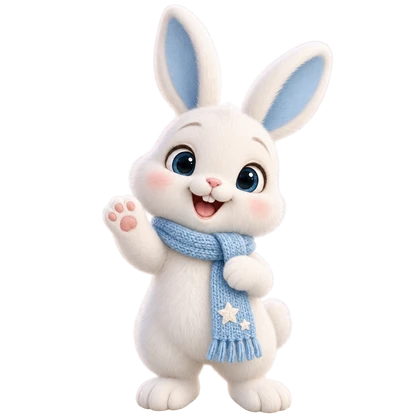
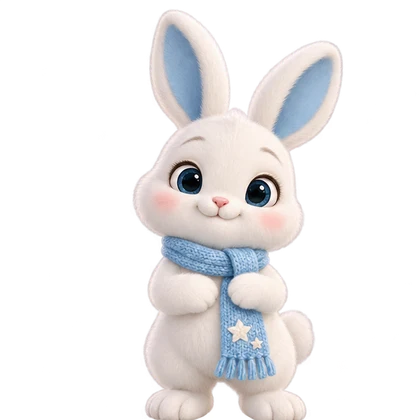
Add files via upload

Changed region(s): [[0.2476, 0.031, 0.8357, 1.0]]

diff --git a/notes/pet.js b/notes/pet.js
@@ -2,16 +2,16 @@
  'use strict';
  const scriptURL=document.currentScript.src;
  const asset=name=>new URL('pet-'+name+'.webp',scriptURL).href;
- const profiles={rabbit1:{name:'兔大',tag:'蓝围巾 · 元气竖耳兔',motion:'hop'},rabbit2:{name:'兔二',tag:'蝴蝶结 · 温柔垂耳兔',motion:'sway'},turtle:{name:'小龟',tag:'薄荷甲壳 · 慢悠悠伙伴',motion:'nod'},dog:{name:'狗狗',tag:'蓝领巾 · 热情小狗',motion:'wiggle'}};
+ const profiles={rabbit1:{name:'兔大',tag:'蓝围巾 · 元气竖耳兔',motion:'hop'},rabbit2:{name:'兔二',tag:'蝴蝶结 · 温柔垂耳兔',motion:'sway'},turtle:{name:'小龟',tag:'薄荷甲壳 · 慢悠悠伙伴',motion:'nod'},dog:{name:'狗狗',tag:'蓝领巾 · 纯白小狗',motion:'wiggle'}};
  const lines=window.BAIXING_PET_LINES;
  let saved={};try{saved=JSON.parse(localStorage.getItem('baixing-companion-v3')||'{}')||{}}catch{}
  let type=profiles[saved.type]?saved.type:'rabbit1',position=null,compact=!!saved.compact,timer,animationTimer,drag=null,suppressClick=false,touchClickUntil=0;
  const counters=Object.fromEntries(Object.keys(profiles).map(k=>[k,0]));
  const root=document.createElement('aside');root.id='journal-companion';root.setAttribute('aria-label','笔记小伙伴');
  root.innerHTML=`<div class="jc-bubble" role="status" aria-live="polite" hidden></div>
- <button class="jc-character" type="button" aria-label="摸摸伙伴，听一句话"><img draggable="false" alt=""><span class="jc-hearts" aria-hidden="true">♡ ✧ ♡</span></button>
- <div class="jc-controls"><button class="jc-switch" type="button" aria-expanded="false" aria-controls="jc-picker"></button><button class="jc-minimize" type="button" aria-label="收起宠物" title="收起宠物">−</button></div>
- <button class="jc-restore" type="button" hidden aria-label="展开宠物"><span aria-hidden="true">✧</span> 小伙伴</button>
+ <button class="jc-character" type="button" aria-label="摸摸伙伴，听一句话"><img draggable="false" alt=""><img class="jc-next" draggable="false" alt="" aria-hidden="true"><span class="jc-hearts" aria-hidden="true">♡ ✧ ♡</span></button>
+ <div class="jc-controls"><button class="jc-switch" type="button" aria-expanded="false" aria-controls="jc-picker" aria-label="选择宠物" title="选择宠物"><svg viewBox="0 0 24 24" aria-hidden="true"><rect x="4" y="4" width="6" height="6" rx="2"/><rect x="14" y="4" width="6" height="6" rx="2"/><rect x="4" y="14" width="6" height="6" rx="2"/><rect x="14" y="14" width="6" height="6" rx="2"/></svg></button><button class="jc-minimize" type="button" aria-label="收起宠物" title="收起宠物">−</button></div>
+ <button class="jc-restore" type="button" hidden aria-label="展开宠物"><span aria-hidden="true">✧</span></button>
  <section id="jc-picker" class="jc-picker" hidden aria-label="选择小伙伴"><div class="jc-panel-head"><div><strong>换个小伙伴</strong><p>点头像选择，轻点宠物听它说话</p></div><button class="jc-close" type="button" aria-label="关闭选择框">×</button></div><div class="jc-options"></div><div class="jc-panel-foot">按住宠物可拖动 · 选择与位置保存在此设备</div></section>`;
  document.body.append(root);
  const button=root.querySelector('.jc-character'),picture=button.querySelector('img'),bubble=root.querySelector('.jc-bubble'),picker=root.querySelector('.jc-picker'),toggle=root.querySelector('.jc-switch');
@@ -19,19 +19,29 @@
  function keepInView(){const width=compact?104:152,height=compact?42:196;const maxX=Math.max(8,innerWidth-width-8),maxY=Math.max(8,innerHeight-height-8);const x=position?.x??maxX-12,y=position?.y??maxY-8;position={x:Math.max(8,Math.min(maxX,x)),y:Math.max(8,Math.min(maxY,y))};root.style.left=position.x+'px';root.style.top=position.y+'px';root.classList.toggle('jc-near-left',position.x<180);root.classList.toggle('jc-near-top',position.y<105);if(!picker.hidden)placePicker()}
  function placePicker(){const width=Math.min(320,innerWidth-24);picker.style.width=width+'px';picker.style.left=Math.max(12,Math.min(innerWidth-width-12,position.x+152-width))+'px';const height=picker.offsetHeight;const above=position.y-height-10;picker.style.top=Math.max(12,Math.min(innerHeight-height-12,above>=12?above:position.y+36))+'px'}
  function menu(open){picker.hidden=!open;toggle.setAttribute('aria-expanded',String(open));if(open){bubble.hidden=true;placePicker()} }
- function show(){clearTimeout(timer);clearTimeout(animationTimer);menu(false);const list=lines[type];bubble.textContent=list[counters[type]++%list.length];bubble.hidden=false;root.dataset.motion='';void button.offsetWidth;root.dataset.motion=profiles[type].motion;animationTimer=setTimeout(()=>{root.dataset.motion=''},850);timer=setTimeout(()=>{bubble.hidden=true},6500)}
- function render(){picture.src=asset(type);picture.alt=profiles[type].tag;toggle.textContent=profiles[type].name+' · 换伙伴';button.setAttribute('aria-label','摸摸'+profiles[type].name+'，听一句话');root.dataset.pet=type;root.querySelectorAll('[data-choice]').forEach(b=>b.setAttribute('aria-pressed',String(b.dataset.choice===type)))}
- for(const [key,p]of Object.entries(profiles)){const b=document.createElement('button');b.type='button';b.dataset.choice=key;b.innerHTML=`<img src="${asset(key)}" alt="" draggable="false"><strong>${p.name}</strong><span>${p.tag.split(' · ')[0]}</span>`;b.onclick=()=>{type=key;render();persist();show();button.focus({preventScroll:true})};root.querySelector('.jc-options').append(b)}
+ const next=button.querySelector('.jc-next');
+ let poseTimer,idleTimer,swapToken=0;
+ const reduced=matchMedia('(prefers-reduced-motion: reduce)');
+ const preloads=[];for(const key of Object.keys(profiles))for(const pose of ['','-happy','-love','-sleep']){const im=new Image();im.src=asset(key+pose);preloads.push(im)}
+ function resetPose(){clearTimeout(poseTimer);clearTimeout(idleTimer);swapToken++;next.style.opacity='0';picture.style.opacity='1';root.dataset.pose='neutral';root.dataset.motion='';scheduleIdle()}
+ function scheduleIdle(){clearTimeout(idleTimer);if(!compact&&!root.hidden&&!document.hidden)idleTimer=setTimeout(()=>{setPose('sleep');root.dataset.motion='';},24000)}
+ async function setPose(pose){const token=++swapToken,url=asset(type+(pose==='neutral'?'':'-'+pose));const im=new Image();im.src=url;try{await im.decode()}catch{return}if(token!==swapToken)return;next.src=url;next.style.opacity='1';picture.style.opacity='0';root.dataset.pose=pose;setTimeout(()=>{if(token!==swapToken)return;picture.src=url;picture.style.opacity='1';next.style.opacity='0'},reduced.matches?0:160)}
+ function react(){clearTimeout(poseTimer);clearTimeout(idleTimer);const pose=counters[type]%2?'happy':'love';setPose(pose);root.dataset.motion='';void button.offsetWidth;root.dataset.motion=pose==='love'?'affection':profiles[type].motion;poseTimer=setTimeout(()=>{setPose('neutral');root.dataset.motion='';scheduleIdle()},2200)}
+ function show(){clearTimeout(timer);menu(false);const list=lines[type];bubble.textContent=list[counters[type]++%list.length];bubble.hidden=false;react();timer=setTimeout(()=>{bubble.hidden=true},6500)}
+ button.addEventListener('pointerenter',()=>{if(root.dataset.pose==='sleep'){setPose('neutral');scheduleIdle()}});
+ document.addEventListener('visibilitychange',()=>{if(document.hidden){clearTimeout(idleTimer);clearTimeout(poseTimer);root.dataset.motion=''}else{setPose('neutral');scheduleIdle()}});
+ function render(){picture.src=asset(type);picture.alt=profiles[type].tag;resetPose();button.setAttribute('aria-label','摸摸'+profiles[type].name+'，听一句话');root.dataset.pet=type;root.querySelectorAll('[data-choice]').forEach(b=>b.setAttribute('aria-pressed',String(b.dataset.choice===type)))}
+ for(const [key,p]of Object.entries(profiles)){const b=document.createElement('button');b.type='button';b.dataset.choice=key;b.innerHTML=`<img src="${asset(key)}" alt="" draggable="false"><strong>${p.name}</strong><span>${p.tag.split(' · ')[0]}</span>`;b.onclick=e=>{type=key;render();persist();show();if(e.detail===0)button.focus({preventScroll:true})};root.querySelector('.jc-options').append(b)}
  toggle.onclick=()=>menu(picker.hidden);root.querySelector('.jc-close').onclick=()=>{menu(false);toggle.focus()};
  button.onclick=event=>{if(event.detail>0&&Date.now()<touchClickUntil)return;if(suppressClick){suppressClick=false;return}show()};
- function setCompact(value){compact=value;root.classList.toggle('jc-compact',compact);root.querySelector('.jc-restore').hidden=!compact;button.hidden=compact;root.querySelector('.jc-controls').hidden=compact;menu(false);bubble.hidden=true;keepInView();persist()}
+ function setCompact(value){compact=value;resetPose();root.classList.toggle('jc-compact',compact);root.querySelector('.jc-restore').hidden=!compact;button.hidden=compact;root.querySelector('.jc-controls').hidden=compact;menu(false);bubble.hidden=true;keepInView();persist()}
  root.querySelector('.jc-minimize').onclick=()=>setCompact(true);root.querySelector('.jc-restore').onclick=()=>setCompact(false);
  button.addEventListener('pointerdown',event=>{if(event.button!==0||drag)return;suppressClick=false;drag={id:event.pointerId,x:event.clientX,y:event.clientY,left:position.x,top:position.y,moved:false};button.setPointerCapture(event.pointerId)});
- button.addEventListener('pointermove',event=>{if(!drag||event.pointerId!==drag.id)return;const dx=event.clientX-drag.x,dy=event.clientY-drag.y;if(!drag.moved&&Math.hypot(dx,dy)<7)return;drag.moved=true;root.classList.add('jc-dragging');menu(false);bubble.hidden=true;position={x:drag.left+dx,y:drag.top+dy};keepInView()});
- function finishDrag(event){if(!drag||event.pointerId!==drag.id)return;const tapped=!drag.moved&&event.type==='pointerup';suppressClick=drag.moved;drag=null;root.classList.remove('jc-dragging');if(button.hasPointerCapture(event.pointerId))button.releasePointerCapture(event.pointerId);if(tapped&&event.pointerType==='touch'){touchClickUntil=Date.now()+700;show()}persist()}
+ button.addEventListener('pointermove',event=>{if(!drag||event.pointerId!==drag.id)return;const dx=event.clientX-drag.x,dy=event.clientY-drag.y;if(!drag.moved&&Math.hypot(dx,dy)<7)return;drag.moved=true;root.classList.add('jc-dragging');clearTimeout(poseTimer);clearTimeout(idleTimer);root.dataset.motion='';menu(false);bubble.hidden=true;position={x:drag.left+dx,y:drag.top+dy};keepInView()});
+ function finishDrag(event){if(!drag||event.pointerId!==drag.id)return;const tapped=!drag.moved&&event.type==='pointerup';suppressClick=drag.moved;drag=null;root.classList.remove('jc-dragging');if(button.hasPointerCapture(event.pointerId))button.releasePointerCapture(event.pointerId);if(tapped&&event.pointerType==='touch'){touchClickUntil=Date.now()+700;show()}scheduleIdle();persist()}
  button.addEventListener('pointerup',finishDrag);button.addEventListener('pointercancel',finishDrag);button.addEventListener('lostpointercapture',()=>{drag=null;root.classList.remove('jc-dragging')});button.addEventListener('dragstart',event=>event.preventDefault());
  document.addEventListener('pointerdown',e=>{if(!root.contains(e.target))menu(false)});document.addEventListener('keydown',e=>{if(e.key==='Escape'&&!picker.hidden){menu(false);toggle.focus()}});
- const modalObserver=new MutationObserver(()=>{root.hidden=!!document.querySelector('dialog[open]');if(root.hidden){menu(false);bubble.hidden=true}});document.querySelectorAll('dialog').forEach(d=>modalObserver.observe(d,{attributes:true,attributeFilter:['open']}));
+ const modalObserver=new MutationObserver(()=>{root.hidden=!!document.querySelector('dialog[open]');if(root.hidden){resetPose();menu(false);bubble.hidden=true}else{setPose("neutral");scheduleIdle()}});document.querySelectorAll('dialog').forEach(d=>modalObserver.observe(d,{attributes:true,attributeFilter:['open']}));
  window.addEventListener('resize',()=>{keepInView();persist()});
  if(Number.isFinite(saved.position?.x)&&Number.isFinite(saved.position?.y))position=saved.position;
  render();setCompact(compact);

diff --git a/notes/companion.css b/notes/companion.css
@@ -29,15 +29,29 @@
 #journal-companion .jc-options span{font-size:10px;color:#89a0af;margin-top:3px}
 #journal-companion .jc-panel-foot{font-size:10px;color:#8b9eac;margin-top:14px;text-align:center;line-height:1.7}
 #journal-companion .jc-hearts{position:absolute;top:10px;left:18px;color:#8ab7d4;font-size:20px;letter-spacing:9px;opacity:0;pointer-events:none}
-#journal-companion[data-motion]:not([data-motion=""]) .jc-hearts{animation:jc-spark .85s ease-out}
-#journal-companion[data-motion=hop] .jc-character img{animation:jc-hop .8s ease}
-#journal-companion[data-motion=sway] .jc-character img{animation:jc-sway .8s ease}
-#journal-companion[data-motion=nod] .jc-character img{animation:jc-nod .8s ease}
-#journal-companion[data-motion=wiggle] .jc-character img{animation:jc-wiggle .8s ease}
-#journal-companion.jc-compact{width:104px;height:42px}#journal-companion .jc-restore{height:36px;font-size:12px}#journal-companion .jc-restore span{color:#66a4cd;font-size:17px;margin-right:5px}
-@keyframes jc-hop{30%{transform:translateY(-14px) rotate(-5deg)}65%{transform:translateY(-5px) rotate(3deg)}}
-@keyframes jc-sway{25%{transform:rotate(-9deg)}65%{transform:rotate(8deg)}}
-@keyframes jc-nod{35%{transform:translateY(5px) rotate(5deg)}70%{transform:translateY(-3px)}}
-@keyframes jc-wiggle{20%,60%{transform:rotate(-7deg)}40%,80%{transform:rotate(7deg)}}
-@keyframes jc-spark{20%{opacity:1}100%{opacity:0;transform:translateY(-24px)}}
+
+#journal-companion .jc-character img{position:absolute;inset:0;transition:opacity .16s ease;transform-origin:50% 85%}
+#journal-companion .jc-character .jc-next{opacity:0}
+#journal-companion .jc-character{animation:jc-breathe 5s ease-in-out infinite}
+#journal-companion .jc-controls{position:absolute;right:0;bottom:8px;gap:5px;height:32px;opacity:.68;transition:opacity .2s}
+#journal-companion:hover .jc-controls,#journal-companion:focus-within .jc-controls{opacity:1}
+#journal-companion .jc-switch,#journal-companion .jc-minimize{display:grid;place-items:center;width:32px;height:32px;padding:0;border-radius:50%;background:#ffffffdf}
+#journal-companion .jc-switch svg{width:16px;height:16px;fill:none;stroke:currentColor;stroke-width:1.5}
+#journal-companion.jc-dragging .jc-character{transform:none;animation:none}
+#journal-companion[data-motion=hop] .jc-character{animation:jc-hop 1s cubic-bezier(.2,.7,.3,1)}
+#journal-companion[data-motion=sway] .jc-character{animation:jc-sway 1.4s ease-in-out}
+#journal-companion[data-motion=nod] .jc-character{animation:jc-nod 1.5s ease-in-out}
+#journal-companion[data-motion=wiggle] .jc-character{animation:jc-wiggle 1.2s ease-in-out}
+#journal-companion[data-motion=affection] .jc-character{animation:jc-affection 1.8s ease-in-out}
+#journal-companion[data-motion=affection] .jc-hearts{animation:jc-spark 1.7s ease-out}
+#journal-companion[data-pose=sleep] .jc-character{animation:jc-breathe 6.5s ease-in-out infinite}
+#journal-companion.jc-compact{width:104px;height:42px}#journal-companion .jc-restore{width:38px;height:38px;padding:0;font-size:22px}
+@keyframes jc-breathe{50%{transform:translateY(-1.5px) scaleY(1.012)}}
+@keyframes jc-hop{20%{transform:scale(1.025,.975)}48%{transform:translateY(-6px) scale(.99,1.01)}75%{transform:translateY(1px) scale(1.01,.99)}}
+@keyframes jc-sway{35%{transform:translateX(-2px) rotate(-2deg)}70%{transform:translateX(1px) rotate(1deg)}}
+@keyframes jc-nod{40%{transform:translateY(2px) scaleY(.98)}75%{transform:translateY(-1px)}}
+@keyframes jc-wiggle{25%{transform:translateY(-3px) rotate(-1.5deg)}55%{transform:translateY(-1px) rotate(1.5deg)}80%{transform:translateY(-2px)}}
+@keyframes jc-affection{40%,65%{transform:rotate(-2deg) translateY(-2px)}}
+@keyframes jc-spark{30%{opacity:.8}100%{opacity:0;transform:translateY(-18px)}}
+@media(pointer:coarse){#journal-companion .jc-controls{opacity:1}}
 @media(prefers-reduced-motion:reduce){#journal-companion *,#journal-companion *:before{animation:none!important;transition:none!important}}

diff --git a/notes/index.html b/notes/index.html
@@ -1,9 +1,9 @@
 <!doctype html><html lang="zh-CN"><head>
 <meta charset="utf-8"><meta name="viewport" content="width=device-width,initial-scale=1"><meta name="theme-color" content="#07182f">
 <title>随行笔记 · 白星空间</title><meta name="description" content="和朋友一起记录生活、阅读与灵感">
-<link rel="stylesheet" href="style.css?v=20260916b"><link rel="stylesheet" href="shared.css?v=20260916b">
+<link rel="stylesheet" href="style.css?v=20260916c"><link rel="stylesheet" href="shared.css?v=20260916c">
 <script src="../album/cloud-config.js" defer></script><script src="../album/supabase.js" defer></script>
-<link rel="stylesheet" href="quill.snow.css"><link rel="stylesheet" href="rich.css?v=20260916b"><script src="quill.js" defer></script><script src="rich.js" defer></script><script src="store.js" defer></script><script src="notes.js" defer></script><link rel="stylesheet" href="page.css?v=20260916b"><link rel="stylesheet" href="companion.css?v=20260916b"><script src="pet-lines.js?v=20260916b" defer></script><script src="pet.js?v=20260916b" defer></script></head><body>
+<link rel="stylesheet" href="quill.snow.css"><link rel="stylesheet" href="rich.css?v=20260916c"><script src="quill.js" defer></script><script src="rich.js" defer></script><script src="store.js" defer></script><script src="notes.js" defer></script><link rel="stylesheet" href="page.css?v=20260916c"><link rel="stylesheet" href="companion.css?v=20260916c"><script src="pet-lines.js?v=20260916c" defer></script><script src="pet.js?v=20260916c" defer></script><link rel="stylesheet" href="journal-polish.css?v=20260916c"></head><body>
 <a class="skip" href="#journal">跳到笔记</a>
 <header class="hero"><nav class="nav" aria-label="主导航"><a class="brand" href="/" aria-label="白星空间首页"><span class="mark" aria-hidden="true"></span><span class="brand-name">白星</span><span class="brand-sub">PERSONAL SPACE</span></a><div class="nav-links"><a href="/">首页</a><a href="/album/">相册</a><a href="/notes/" aria-current="page">笔记</a></div></nav><div class="hero-inner"><div class="paper-art" aria-hidden="true"><div class="paper-sheet">把日子写成诗<span></span><span></span><span></span></div></div><div class="eyebrow">Notes along the way</div><h1>随行笔记</h1><p>把偶然闪过的灵感，留给未来的自己<br>也和朋友一起，收藏值得记住的日常</p></div></header>
 <main id="journal" class="section notebook">

diff --git a/notes/journal-polish.css b/notes/journal-polish.css
@@ -1,0 +1,13 @@
+/* Decorations live at the page edges, with no overlay over controls or writing. */
+body{font-family:"Microsoft YaHei","PingFang SC","Noto Sans CJK SC",Arial,sans-serif;color:#29465e;background-color:#f5f9fc;background-image:url('journal-detail.svg'),radial-gradient(ellipse at 3% 60%,#e2eff8 0,transparent 48%),radial-gradient(ellipse at 98% 80%,#e7f2f9 0,transparent 44%);background-repeat:no-repeat;background-position:right bottom,left center,right bottom;background-size:360px 540px,100% 100%,100% 100%}
+.notebook{position:relative}
+.intro h2,.entry h3,.login-box h2{font-family:"Microsoft YaHei","PingFang SC",sans-serif;font-weight:600;letter-spacing:.035em;color:#244963}
+.intro h2{font-size:28px}.entry h3{font-size:22px}
+.intro p,.login-box p,.entry p{color:#4f687c}.entry p{font-size:15px;line-height:1.95}
+label,.filter,.entry-meta,#sync-status,#result-count,.footer,.endnote{color:#5b778d}
+#sync-status,#result-count,.entry-meta{font-size:12px;letter-spacing:0}
+input,select,textarea,button{font-family:inherit}input::placeholder{color:#71879a;opacity:1}
+.action,.filter,.read{font-weight:500}.filter[aria-pressed=true]{color:#234f70;background:#dcecf7}
+.entry,.entry:first-child{background:#fffffff5;border-color:#d2e2ed;border-top-color:#8ebbd5;box-shadow:0 8px 25px #294c6810}
+.endnote{letter-spacing:.08em}.footer{border-top-color:#ccdeeb}
+@media(max-width:650px){body{background-size:210px 310px,100% 100%,100% 100%}.intro h2{font-size:25px}.entry h3{font-size:21px}}
